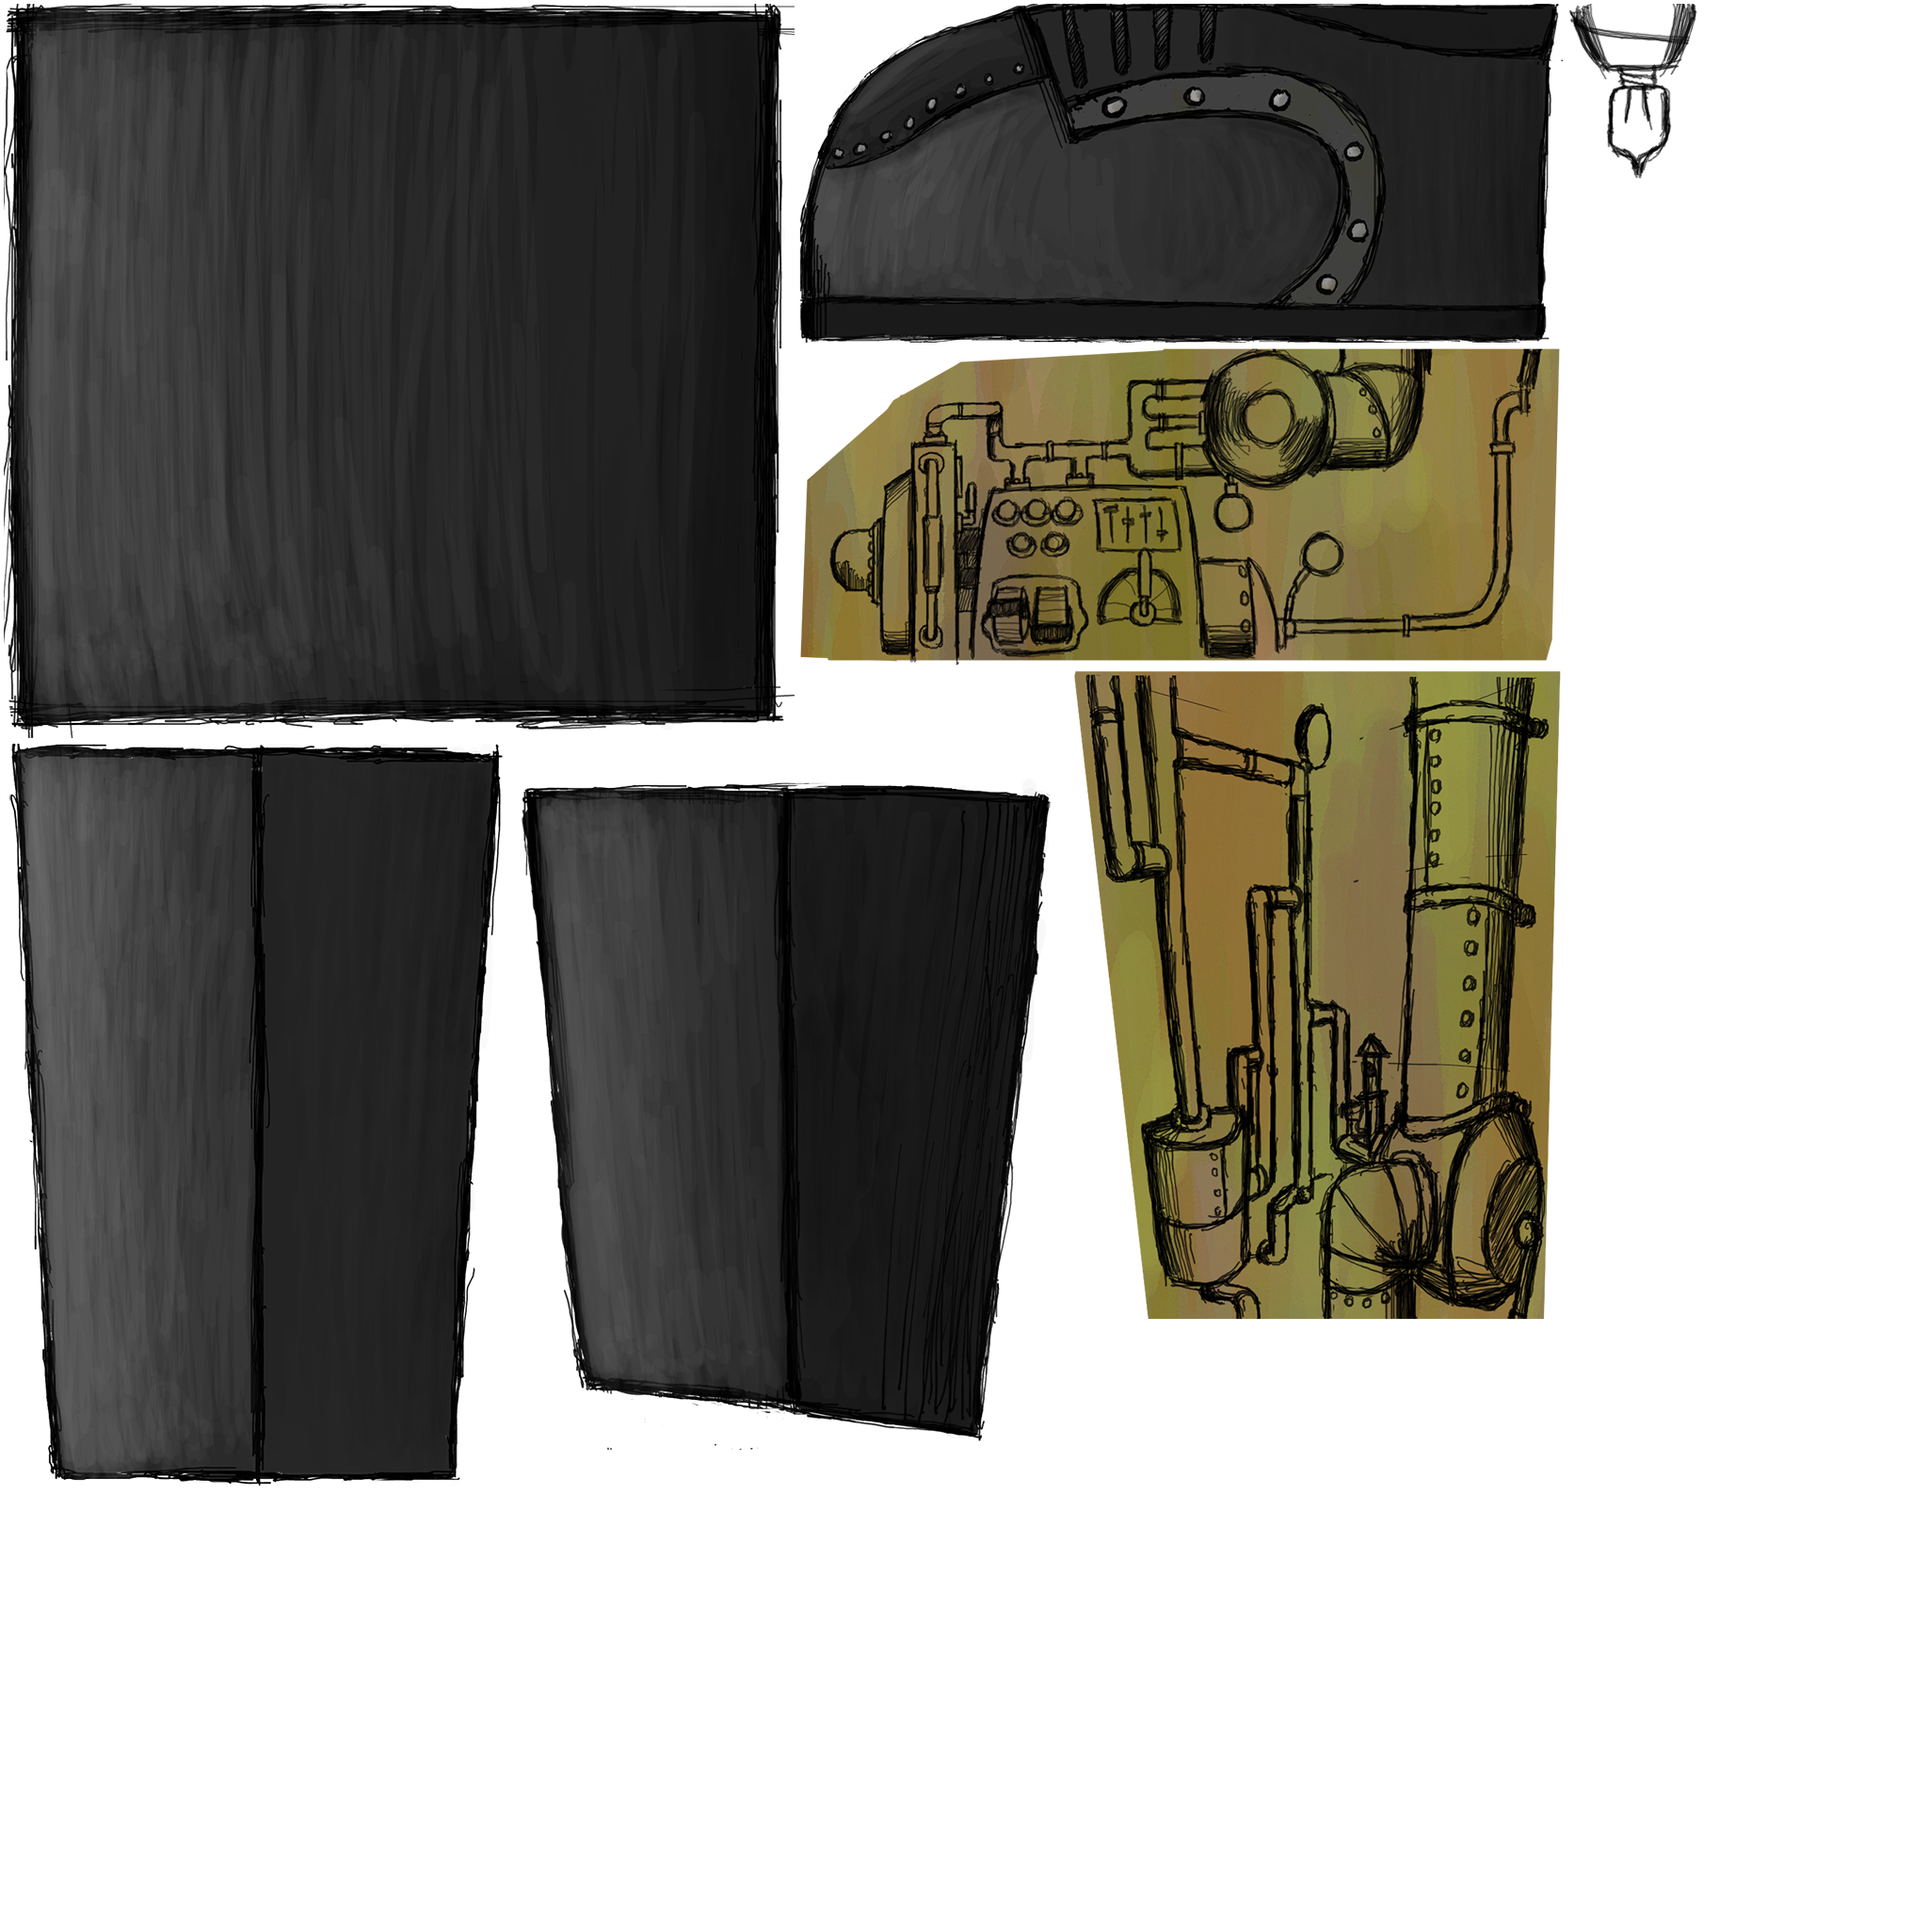
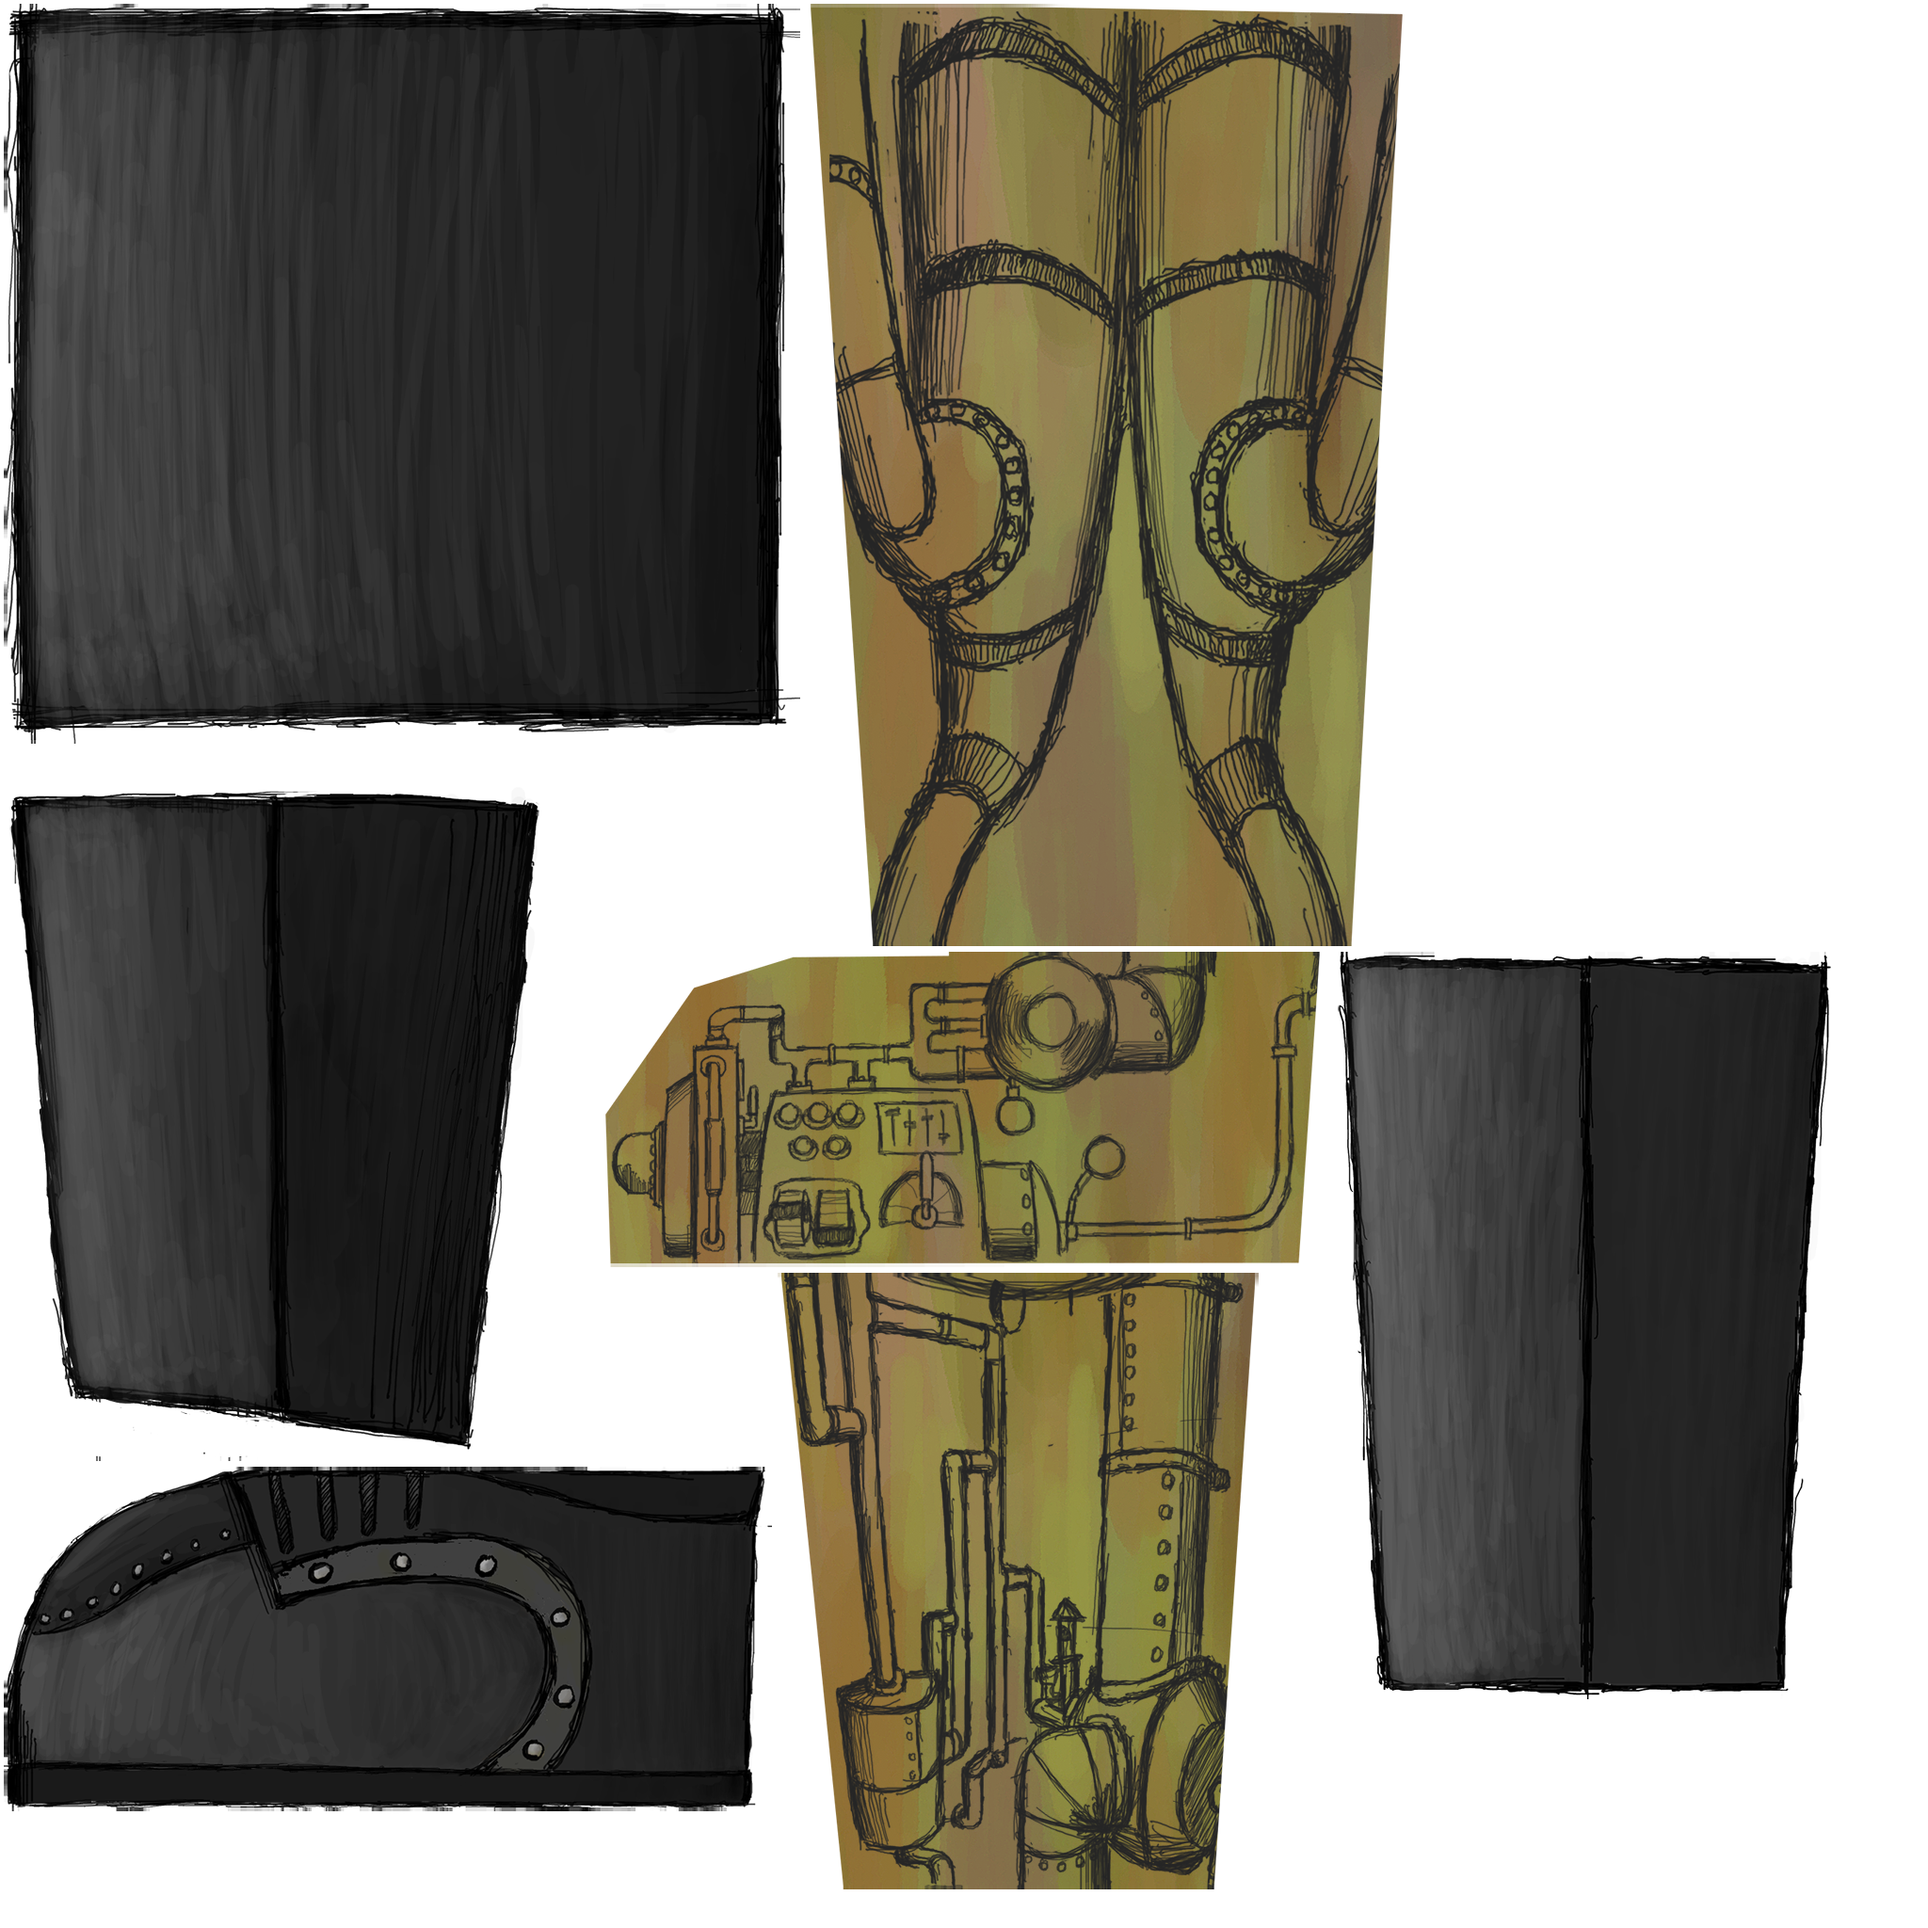
Left leg optimized hella!!!!

diff --git a/werescrewed/src/com/blindtigergames/werescrewed/screens/AlphaScreen.java b/werescrewed/src/com/blindtigergames/werescrewed/screens/AlphaScreen.java
@@ -597,21 +597,21 @@ public class AlphaScreen extends Screen {
 
 	private void thighDecals( Skeleton thighSkeleton ) {
 		TextureAtlas decals = WereScrewedGame.manager
-				.getAtlas( "chest_pipes_thigh_pipes" );
-		TextureAtlas exterior_decals = WereScrewedGame.manager
 				.getAtlas( "foot_shin_thigh" );
 
 		// level.entityBGList.add(thighSkeleton);
-		Sprite sprite = decals.createSprite( "thigh_mechanisms_and_pipesNOCOLOR" );
+		Sprite sprite = decals.createSprite( "left-thigh" );
 		sprite.setScale(1f/0.75f);
 		thighSkeleton.addBGDecalBack(
 				sprite,
-				new Vector2( -345, -1117 ) );
+				new Vector2( -365, -994 ) );
 		// 380,1117
 
 		Vector2 thighPos = new Vector2( -425, -1010 );
 		thighSkeleton.addFGDecal(
-				Sprite.scale(exterior_decals.createSprite( "thigh_exterior" ),1.75f), thighPos );
+				Sprite.scale(decals.createSprite( "thigh_exterior" ),1.75f), thighPos );
+		
+		thighSkeleton.bgSprite = null;
 	}
 
 	private void createFootObjects( ) {
@@ -663,14 +663,14 @@ public class AlphaScreen extends Screen {
 		// DECALS for Foot / Shin
 		Sprite s;
 		float scale = 1f/.75f;
-		int decalX = -686;// -482;//587
+		int decalX = -703;// -482;//587
 		int decalY = -614;// -558;//536
-		Sprite footBG = decals.createSprite( "foot-interior" );
-		Sprite legBG = decals.createSprite( "shin-interior" );
+		Sprite footBG = decals.createSprite( "left-foot" );
+		Sprite legBG = decals.createSprite( "left-shin" );
 		Skeleton foot = ( Skeleton ) LevelFactory.entities.get( "footSkeleton" );
 		foot.addBGDecal( Sprite.scale(footBG,scale), new Vector2( decalX, decalY ) );
 		footBG.setOrigin( 0f, 0f );
-		foot.addBGDecal( Sprite.scale(legBG,scale), new Vector2( 410 + decalX, 432 + decalY ) );
+		foot.addBGDecal( Sprite.scale(legBG,scale), new Vector2( 450 + decalX, 440 + decalY ) );
 
 		addBGSkeleton( footSkeleton );
 		addFGSkeleton( footSkeleton );
@@ -682,6 +682,9 @@ public class AlphaScreen extends Screen {
 		foot.addFGDecal( Sprite.scale(decals.createSprite( "foot_exterior" ),scale), footFGPos );
 		foot.addFGDecal( Sprite.scale(decals.createSprite( "shin_exterior" ),scale), footFGPos
 				.cpy( ).add( 400, 386 ) );
+		
+		foot.bgSprite = null;
+		
 
 	}
 	
@@ -751,14 +754,16 @@ public class AlphaScreen extends Screen {
 				.add( 260, -2279 ); // this is horrible I know know why knee is
 									// here even 50,60
 		kneeSkeleton.addFGDecalBack( Sprite.scale(decals.createSprite( "knee_exterior" ),scale),
-				kneeDecalPos.cpy( ) );
+				kneeDecalPos.cpy( ).add( -36,-65 ) );
 		addFGSkeleton( kneeSkeleton );
 		addBGSkeleton( kneeSkeleton );
 
 		kneeSkeleton.addBGDecalBack( Sprite.scale(knee_exterior
-				.createSprite( "knee_mechanisms_and_pipesNOCOLOR_REDONE" ),scale),
-				kneeDecalPos.cpy( ) );
+				.createSprite( "left-knee" ),scale),
+				kneeDecalPos.cpy( ).add(22,-6) );
 		// removePlayerToScrew( )
+		
+		kneeSkeleton.bgSprite = null;
 	}
 
 	private void initPowerScrews( ) {
@@ -1199,6 +1204,7 @@ public class AlphaScreen extends Screen {
 	}
 
 	private void leftArm( ) {
+		float scale = 1f/.75f;
 		leftArmScrew = ( PuzzleScrew ) LevelFactory.entities
 				.get( "leftShoulderPuzzleScrew1" );
 
@@ -1213,13 +1219,16 @@ public class AlphaScreen extends Screen {
 				new Vector2( -1748, 5980 ).mul( Util.PIXEL_TO_BOX ) );
 		level.world.createJoint( rjd );
 
-		TextureAtlas left_arm = WereScrewedGame.manager.getAtlas( "left-arm" );
-		Vector2 pos = new Vector2( -455, -3250 );
+		TextureAtlas left_arm = WereScrewedGame.manager.getAtlas( "left-arm-internal" );
+		Vector2 pos = new Vector2( -526, -3314.66f );
 		leftShoulderSkeleton.addBGDecal(
-				left_arm.createSprite( "left-arm-bottom" ), pos );
+				Sprite.scale(left_arm.createSprite( "left-arm-bottom" ),scale), pos );
 		leftShoulderSkeleton.addBGDecal(
-				left_arm.createSprite( "left-arm-top" ),
-				pos.cpy( ).add( 0, 1721 ) );
+				Sprite.scale(left_arm.createSprite( "left-arm-top" ),scale,scale),
+				pos.cpy( ).add( 0, 1916 ) );
+		//714,1437
+		
+		leftShoulderSkeleton.bgSprite = null;
 		
 		addFGSkeleton( leftShoulderSkeleton );
 		addBGSkeleton( leftShoulderSkeleton );
@@ -1635,5 +1644,7 @@ public class AlphaScreen extends Screen {
 		
 		addBGSkeleton(rightElbowSkeleton);
 		addBGSkeleton( rightShoulderSkeleton );
+		
+		
 	}
 }

diff --git a/werescrewed/src/com/blindtigergames/werescrewed/player/Player.java b/werescrewed/src/com/blindtigergames/werescrewed/player/Player.java
@@ -564,10 +564,10 @@ public class Player extends Entity {
 		}
 		prevPlayerDir = playerDirection;
 		if(name == "player1"){
-			Gdx.app.log( "\nright: ", "" + rightCrush );
-			Gdx.app.log("left: ", "" + leftCrush );
-			Gdx.app.log( "top: ", "" + topCrush);
-			Gdx.app.log( "bottom: ", "" + botCrush );
+			//Gdx.app.log( "\nright: ", "" + rightCrush );
+			//Gdx.app.log("left: ", "" + leftCrush );
+			//Gdx.app.log( "top: ", "" + topCrush);
+			//Gdx.app.log( "bottom: ", "" + botCrush );
 		}
 	}
 
